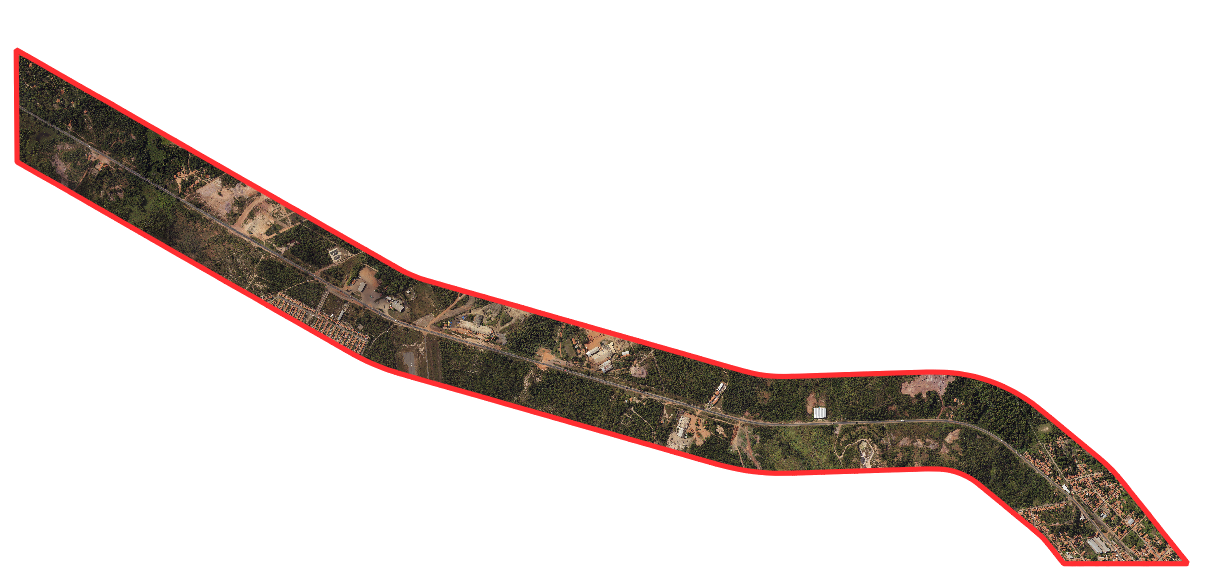
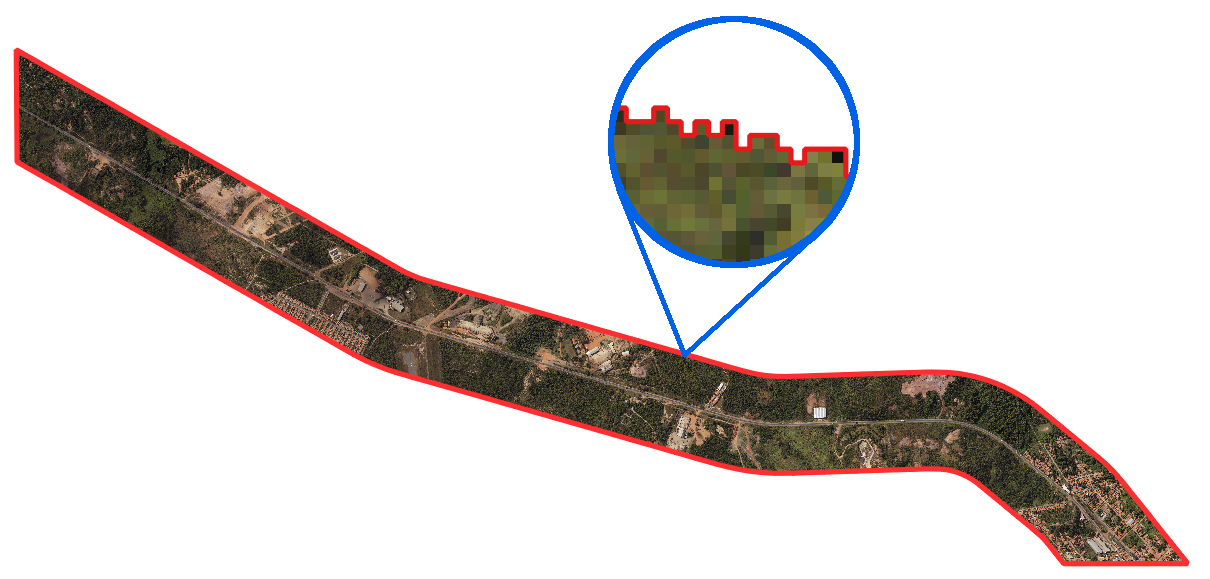
Added less-than test.

diff --git a/src/raster-outline-testblock.cpp b/src/raster-outline-testblock.cpp
@@ -273,13 +273,95 @@ TestF64BiggerThan(u8* _TopRow, u8* _BottomRow, u32 InspectWidth, u32 BandCount, 
 }
 
 //================================
+// Test for less than
+//================================
+
+#define TEST_FOR_LESSTHAN do { \
+for (usz Count = 0; Count < BandCount; Count++) \
+{ \
+TLValue &= Top[0] <= Value; \
+TRValue &= Top[1] <= Value; \
+BLValue &= Bottom[0] <= Value; \
+BRValue &= Bottom[1] <= Value; \
+Top += InspectWidth; \
+Bottom += InspectWidth; \
+} \
+} while (0);
+
+internal edge_type
+TestU8LessThan(u8* _TopRow, u8* _BottomRow, u32 InspectWidth, u32 BandCount, double _Value)
+{
+    u8* Top = _TopRow;
+    u8* Bottom = _BottomRow;
+    u8 Value = (u8)_Value;
+    
+    bool TLValue = true, TRValue = true, BLValue = true, BRValue = true;
+    TEST_FOR_LESSTHAN;
+    
+    return GetBlockEdges(TLValue, TRValue, BLValue, BRValue);
+}
+
+internal edge_type
+TestU16LessThan(u8* _TopRow, u8* _BottomRow, u32 InspectWidth, u32 BandCount, double _Value)
+{
+    u16* Top = (u16*)_TopRow;
+    u16* Bottom = (u16*)_BottomRow;
+    u16 Value = (u16)_Value;
+    
+    bool TLValue = true, TRValue = true, BLValue = true, BRValue = true;
+    TEST_FOR_LESSTHAN;
+    
+    return GetBlockEdges(TLValue, TRValue, BLValue, BRValue);
+}
+
+internal edge_type
+TestU32LessThan(u8* _TopRow, u8* _BottomRow, u32 InspectWidth, u32 BandCount, double _Value)
+{
+    u32* Top = (u32*)_TopRow;
+    u32* Bottom = (u32*)_BottomRow;
+    u32 Value = (u32)_Value;
+    
+    bool TLValue = true, TRValue = true, BLValue = true, BRValue = true;
+    TEST_FOR_LESSTHAN;
+    
+    return GetBlockEdges(TLValue, TRValue, BLValue, BRValue);
+}
+
+internal edge_type
+TestF32LessThan(u8* _TopRow, u8* _BottomRow, u32 InspectWidth, u32 BandCount, double _Value)
+{
+    f32* Top = (f32*)_TopRow;
+    f32* Bottom = (f32*)_BottomRow;
+    f32 Value = (f32)_Value;
+    
+    bool TLValue = true, TRValue = true, BLValue = true, BRValue = true;
+    TEST_FOR_LESSTHAN;
+    
+    return GetBlockEdges(TLValue, TRValue, BLValue, BRValue);
+}
+
+internal edge_type
+TestF64LessThan(u8* _TopRow, u8* _BottomRow, u32 InspectWidth, u32 BandCount, double _Value)
+{
+    f64* Top = (f64*)_TopRow;
+    f64* Bottom = (f64*)_BottomRow;
+    f64 Value = (f64)_Value;
+    
+    bool TLValue = true, TRValue = true, BLValue = true, BRValue = true;
+    TEST_FOR_LESSTHAN;
+    
+    return GetBlockEdges(TLValue, TRValue, BLValue, BRValue);
+}
+
+//================================
 // Test selection
 //================================
 
-global test_block TestCallbacks[3][5] = {
+global test_block TestCallbacks[4][5] = {
     { TestU8Equal, TestU16Equal, TestU32Equal, TestF32Equal, TestF64Equal },
     { TestU8NotEqual, TestU16NotEqual, TestU32NotEqual, TestF32NotEqual, TestF64NotEqual},
-    { TestU8BiggerThan, TestU16BiggerThan, TestU32BiggerThan, TestF32BiggerThan, TestF64BiggerThan }};
+    { TestU8BiggerThan, TestU16BiggerThan, TestU32BiggerThan, TestF32BiggerThan, TestF64BiggerThan },
+    { TestU8LessThan, TestU16LessThan, TestU32LessThan, TestF32LessThan, TestF64LessThan }};
 
 internal test_block
 GetTestBlockCallback(GDALDataType DType, test_type TestType)

diff --git a/src/raster-outline.h b/src/raster-outline.h
@@ -38,8 +38,9 @@
 enum test_type
 {
     TestType_Equal,      // Pixel == target value.
-    TestType_NotEqual,   // Pixels != target value.
-    TestType_BiggerThan  // Pixels >= target value.
+    TestType_NotEqual,   // Pixel != target value.
+    TestType_BiggerThan, // Pixel >= target value.
+    TestType_LessThan    // Pixel <= target value.
 };
 
 struct ring_info
